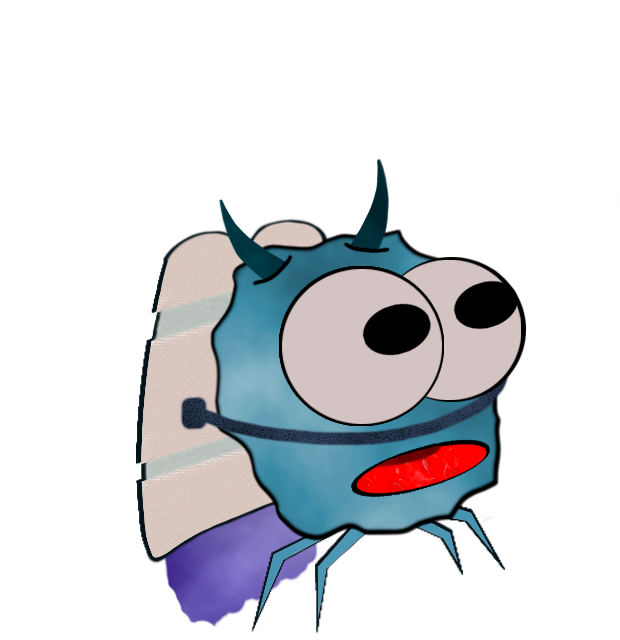
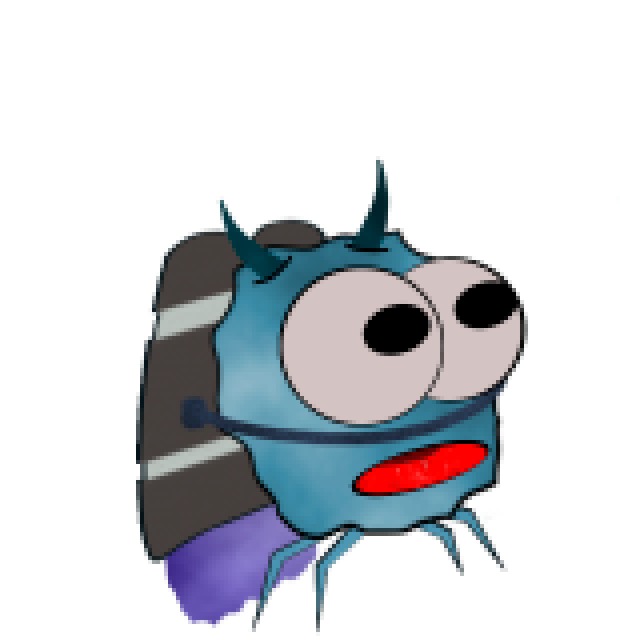
rectificado errores

diff --git a/Xtreme-SunBlind/src/js/main.js b/Xtreme-SunBlind/src/js/main.js
@@ -28,7 +28,7 @@ var PreloaderScene = {
 	//Logo y jugador
     this.game.load.image('logo', 'images/phaser.png');
     this.game.stage.backgroundColor = '#220A29';
-    this.game.load.spritesheet('player', 'images/alientotal2.png', 60, 57, 15);
+    this.game.load.spritesheet('player', 'images/alientotal.png', 60, 57, 15);
     this.game.load.image('escudo', 'images/Escudo.png');
 	  this.game.load.spritesheet('borracho', 'images/Borracho.png', 1280, 720, 4);
 

diff --git a/Xtreme-SunBlind/src/js/class_player.js b/Xtreme-SunBlind/src/js/class_player.js
@@ -35,7 +35,7 @@ Protagonista.prototype.create = function (){
     jumpButton = this.juego.input.keyboard.addKey(Phaser.Keyboard.SPACEBAR);
     this.anchor.x = 0.5;
     this.anchor.y = 0.5;
-    this.reescala_imagen(1.45,1.1);
+    this.reescala_imagen(1.1,0.85);
     this.animations.add('walk', [0,1,2,3]);
   this.animations.add('stay', [4,5], 6, true);
   this.animations.add('jump', [6,7,8,9,10,11,12,13,14]);
